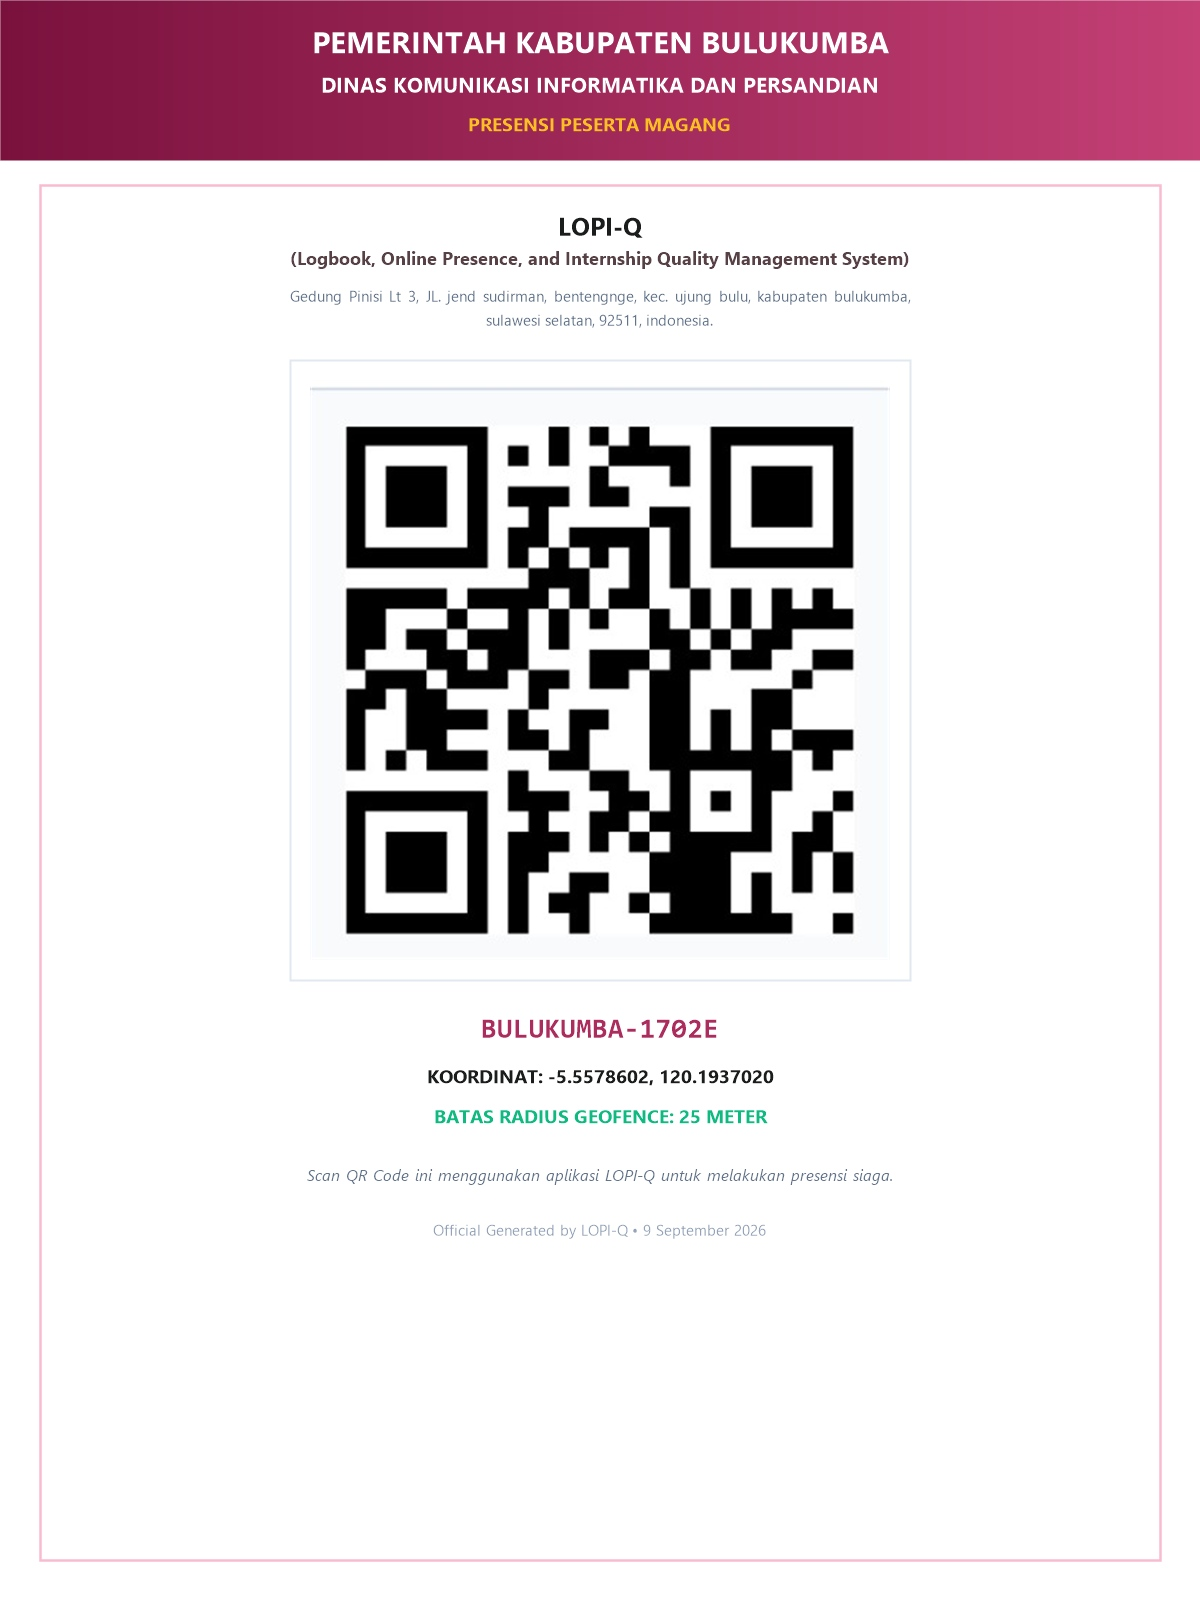
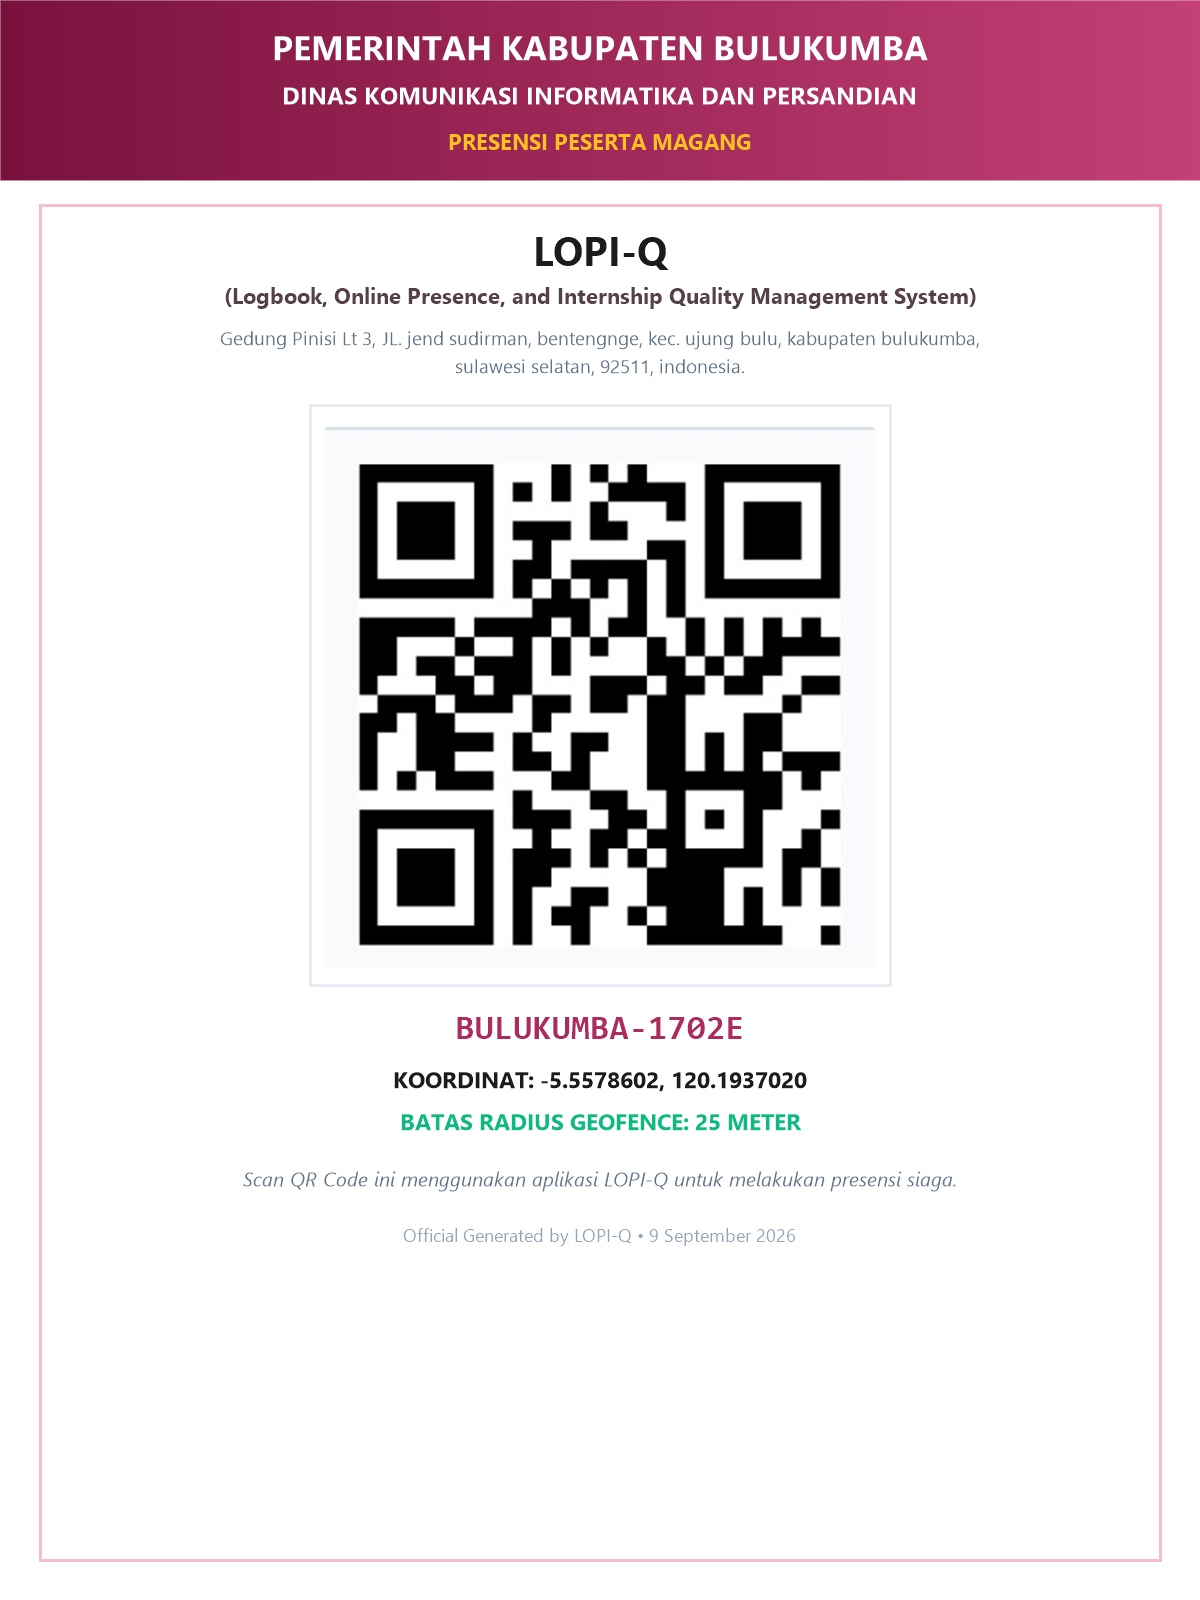
feat(location): enlarge font sizes on downloaded QRIS poster

Changed region(s): [[0.0, 0.0, 1.0, 0.5938], [0.2467, 0.625, 0.74, 0.7812]]

diff --git a/apps/web/src/views/super-admin/LocationView.vue b/apps/web/src/views/super-admin/LocationView.vue
@@ -414,63 +414,64 @@ const downloadOfficialQrImage = async () => {
     headerGrad.addColorStop(0.5, '#ab2c5d')
     headerGrad.addColorStop(1, '#c44075')
     ctx.fillStyle = headerGrad
-    ctx.fillRect(0, 0, 1200, 160)
+    ctx.fillRect(0, 0, 1200, 180)
 
     ctx.textAlign = 'center'
     ctx.textBaseline = 'middle'
 
-    // Judul: PEMERINTAH KABUPATEN BULUKUMBA
+    // Judul Diperbesar: PEMERINTAH KABUPATEN BULUKUMBA
     ctx.fillStyle = '#FFFFFF'
-    ctx.font = 'bold 28px "Segoe UI", Arial, sans-serif'
-    ctx.fillText('PEMERINTAH KABUPATEN BULUKUMBA', 600, 44)
+    ctx.font = 'bold 34px "Segoe UI", Arial, sans-serif'
+    ctx.fillText('PEMERINTAH KABUPATEN BULUKUMBA', 600, 48)
 
-    // Sub Judul: DINAS KOMUNIKASI INFORMATIKA DAN PERSANDIAN
-    ctx.font = 'bold 20px "Segoe UI", Arial, sans-serif'
-    ctx.fillText('DINAS KOMUNIKASI INFORMATIKA DAN PERSANDIAN', 600, 86)
+    // Sub Judul Diperbesar: DINAS KOMUNIKASI INFORMATIKA DAN PERSANDIAN
+    ctx.font = 'bold 24px "Segoe UI", Arial, sans-serif'
+    ctx.fillText('DINAS KOMUNIKASI INFORMATIKA DAN PERSANDIAN', 600, 96)
 
-    // Tulisan Kuning: presensi peserta magang
+    // Tulisan Kuning Diperbesar: PRESENSI PESERTA MAGANG
     ctx.fillStyle = '#fbbf24'
-    ctx.font = 'bold 18px "Segoe UI", Arial, sans-serif'
-    ctx.fillText('PRESENSI PESERTA MAGANG', 600, 126)
+    ctx.font = 'bold 22px "Segoe UI", Arial, sans-serif'
+    ctx.fillText('PRESENSI PESERTA MAGANG', 600, 142)
 
     // 3. Outer Card Border (Tema Warna Project LOPI-Q #F8BBD0)
     ctx.strokeStyle = '#F8BBD0'
     ctx.lineWidth = 3
-    ctx.strokeRect(40, 185, 1120, 1375)
+    ctx.strokeRect(40, 205, 1120, 1355)
 
-    // 4. Big Title above Barcode: LOPI-Q (Logbook, Online Presence, and Internship Quality Management System)
+    // 4. Big Title above Barcode Diperbesar: LOPI-Q
     ctx.fillStyle = '#1b1c1c'
-    ctx.font = 'bold 26px "Segoe UI", Arial, sans-serif'
-    ctx.fillText('LOPI-Q', 600, 226)
+    ctx.font = 'bold 40px "Segoe UI", Arial, sans-serif'
+    ctx.fillText('LOPI-Q', 600, 252)
 
+    // Pengertian Diperbesar: (Logbook, Online Presence, and Internship Quality Management System)
     ctx.fillStyle = '#574146'
-    ctx.font = 'bold 18px "Segoe UI", Arial, sans-serif'
-    ctx.fillText('(Logbook, Online Presence, and Internship Quality Management System)', 600, 260)
+    ctx.font = 'bold 22px "Segoe UI", Arial, sans-serif'
+    ctx.fillText('(Logbook, Online Presence, and Internship Quality Management System)', 600, 296)
 
-    // Small Address Text
+    // Small Address Text Diperbesar
     ctx.fillStyle = '#64748b'
-    ctx.font = '15.5px "Segoe UI", Arial, sans-serif'
-    ctx.fillText('Gedung Pinisi Lt 3, JL. jend sudirman, bentengnge, kec. ujung bulu, kabupaten bulukumba,', 600, 298)
-    ctx.fillText('sulawesi selatan, 92511, indonesia.', 600, 322)
+    ctx.font = '19px "Segoe UI", Arial, sans-serif'
+    ctx.fillText('Gedung Pinisi Lt 3, JL. jend sudirman, bentengnge, kec. ujung bulu, kabupaten bulukumba,', 600, 338)
+    ctx.fillText('sulawesi selatan, 92511, indonesia.', 600, 366)
 
     // 5. Barcode Frame & Image
     ctx.strokeStyle = '#e2e8f0'
-    ctx.lineWidth = 2
-    ctx.strokeRect(290, 360, 620, 620)
+    ctx.lineWidth = 2.5
+    ctx.strokeRect(310, 405, 580, 580)
 
     const qrImg = new Image()
     qrImg.crossOrigin = 'anonymous'
     
     await new Promise((resolve) => {
       qrImg.onload = () => {
-        ctx.drawImage(qrImg, 310, 380, 580, 580)
+        ctx.drawImage(qrImg, 325, 420, 550, 550)
         resolve(true)
       }
       qrImg.onerror = () => {
         const fallbackImg = new Image()
         fallbackImg.crossOrigin = 'anonymous'
         fallbackImg.onload = () => {
-          ctx.drawImage(fallbackImg, 290, 360, 620, 620, 310, 380, 580, 580)
+          ctx.drawImage(fallbackImg, 310, 405, 580, 580, 325, 420, 550, 550)
           resolve(true)
         }
         fallbackImg.onerror = () => resolve(false)
@@ -479,34 +480,35 @@ const downloadOfficialQrImage = async () => {
       qrImg.src = qrImageUrl.value
     })
 
-    // 6. Below Barcode
+    // 6. Below Barcode (Semua Tulisan Lain Diperbesar)
     // Teks: BULUKUMBA-1702E
     ctx.fillStyle = '#ab2c5d'
-    ctx.font = 'bold 28px Consolas, monospace'
+    ctx.font = 'bold 34px Consolas, monospace'
     ctx.fillText('BULUKUMBA-1702E', 600, 1030)
 
-    // Koordinat
+    // Koordinat Diperbesar
     ctx.fillStyle = '#1e293b'
-    ctx.font = 'bold 19px "Segoe UI", Arial, sans-serif'
-    ctx.fillText(`KOORDINAT: ${latitude.value.toFixed(7)}, ${longitude.value.toFixed(7)}`, 600, 1076)
+    ctx.font = 'bold 23px "Segoe UI", Arial, sans-serif'
+    ctx.fillText(`KOORDINAT: ${latitude.value.toFixed(7)}, ${longitude.value.toFixed(7)}`, 600, 1080)
 
-    // Batas Radius Geofence
+    // Batas Radius Geofence Diperbesar
     ctx.fillStyle = '#059669'
-    ctx.fillText(`BATAS RADIUS GEOFENCE: ${radiusMeters.value} METER`, 600, 1116)
+    ctx.font = 'bold 23px "Segoe UI", Arial, sans-serif'
+    ctx.fillText(`BATAS RADIUS GEOFENCE: ${radiusMeters.value} METER`, 600, 1122)
 
-    // Instruksi: SCAN QR CODE INI MENGGUNAKAN APLIKASI LOPI-Q UNTUK MELAKUKAN PRESENSI SIAGA
+    // Instruksi Diperbesar
     ctx.fillStyle = '#64748b'
-    ctx.font = 'italic 16.5px "Segoe UI", Arial, sans-serif'
-    ctx.fillText('Scan QR Code ini menggunakan aplikasi LOPI-Q untuk melakukan presensi siaga.', 600, 1175)
+    ctx.font = 'italic 20px "Segoe UI", Arial, sans-serif'
+    ctx.fillText('Scan QR Code ini menggunakan aplikasi LOPI-Q untuk melakukan presensi siaga.', 600, 1178)
 
-    // Footer: official generated by LOPI-Q • <Tanggal saat QR di download>
+    // Footer Diperbesar: official generated by LOPI-Q • <Tanggal saat QR di download>
     const months = ['Januari', 'Februari', 'Maret', 'April', 'Mei', 'Juni', 'Juli', 'Agustus', 'September', 'Oktober', 'November', 'Desember']
     const now = new Date()
     const dateStr = `${now.getDate()} ${months[now.getMonth()]} ${now.getFullYear()}`
     
     ctx.fillStyle = '#94a3b8'
-    ctx.font = '15.5px "Segoe UI", Arial, sans-serif'
-    ctx.fillText(`Official Generated by LOPI-Q • ${dateStr}`, 600, 1230)
+    ctx.font = '18px "Segoe UI", Arial, sans-serif'
+    ctx.fillText(`Official Generated by LOPI-Q • ${dateStr}`, 600, 1235)
 
     // Trigger download
     const link = document.createElement('a')
